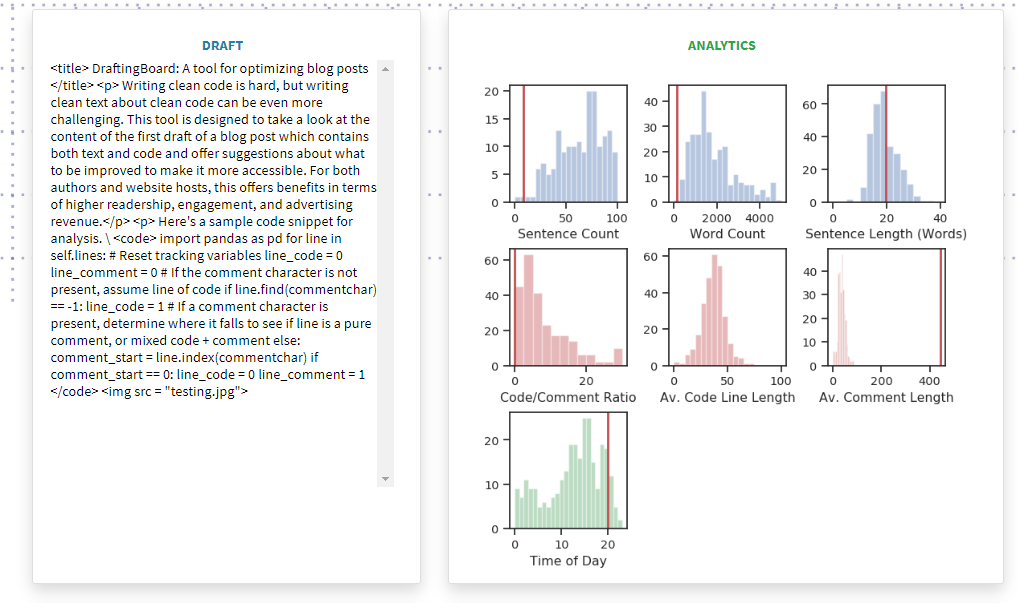
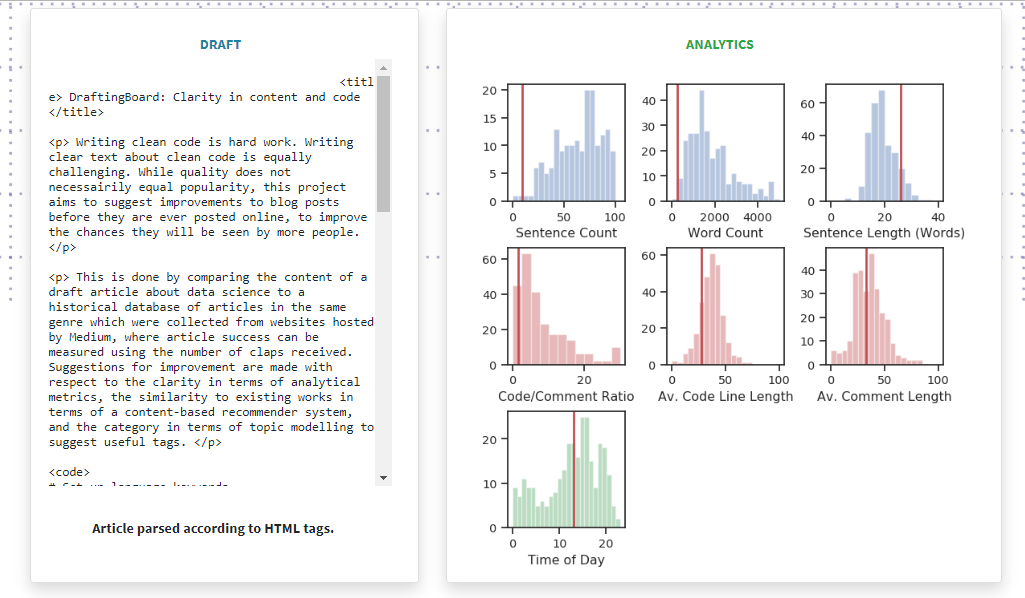
Updated README

diff --git a/insight/README.md b/insight/README.md
@@ -2,7 +2,9 @@
 
 ## Overview 
 ![Project splash screen: lined paper on a wooden desk.](/insight/figures/project_intro.JPG)
-Writing clean code is hard work. Writing clear text about clean code is equally challenging. While quality does not necessairily equal popularity, this project aims to suggest improvements to blog posts before they are ever posted online, to improve the chances they will be seen by more people. 
+Writing clean code is hard work. Writing clear text about clean code is equally challenging. Even after the initial draft is complete, authors face stiff competition: when it comes to online publishing, there is a huge imbalance in readership. With respect to the data set compiled for this project, 5% of the articles written have 73% of the positive attention.
+
+While quality does not necessairily equal popularity, this project aims to suggest improvements to blog posts before they are ever posted online, to improve the chances they will be seen by more people. 
 
 This is done by comparing the content of a draft article about data science to a historical database of articles in the same genre which were collected from websites hosted by Medium, where article success can be measured using the number of claps received. Suggestions for improvement are made with respect to the clarity in terms of analytical metrics, the similarity to existing works in terms of a content-based recommender system, and the category in terms of topic modelling to suggest useful tags. 
 
@@ -10,24 +12,17 @@ This is done by comparing the content of a draft article about data science to a
 
 The data set used in this project is compiled from three sources:
 
-1) A collection of 200+ recent articles scraped from the most popular Medium-affiliated data science sites (Towards Data Science, Hacker Noon, Insight Data Science, etc.)
+1) Web scraping. A collection of 200+ recent articles was scraped from the most popular Medium-affiliated data science sites (Towards Data Science, Hacker Noon, Insight Data Science, etc.)
 
-This scraping was performed and the relevant data blocks extracted in the script:
-> scripts/07-web-scraping-recent.py
-This script outputs a truncated CSV containining the processed data to:
-> data/processed/articles_scraped.csv
-
-2) A Kaggle dataset of 279,577 articles of scraped posts put together by  Aiswarya Ramachandran which contains scraped posts from Medium-affiliated plots tagged with AI, Machine Learning, Datascience, or Artificial Intelligence from September 2017 - September 2018.
+2) Existing data. A dataset of 279,577 articles of scraped posts put together by  Aiswarya Ramachandran which contains scraped posts from Medium-affiliated plots tagged with AI, Machine Learning, Datascience, or Artificial Intelligence from September 2017 - September 2018.
 (https://www.kaggle.com/aiswaryaramachandran/medium-articles-with-content/downloads/medium-articles-with-content.zip/2)
 
-This data set was processed to perform exploratory data analysis and filter the data set to retain only articles with an associated publication name and at least one code block. This code can be found in the script:
-> scripts/01-article-filterer.py
-> noteboos/01-exploratory-data-analysis.ipynb
-This script outputs a truncated CSV containing the processed data to:
-> data/processed/filtereddata.csv
+3) User input. A web app was developed where users can input their prospective post to be analysed, generating suggestions for improvement. If entered as pseudo-HTML code where code blocks are explicitly declared using &lt;code&gt; tags, the input will be separated into text and code and these two components processed separately. If entered as a block of text, the input will be treated as one long string and run through the text NLP pipeline. In either case, a message describing how the input was processed will be returned to the user in the web app.
 
 ## Methodology & Algorithms
 What features of code and content translate to clear, accessible content? Do these features directly translate to success? To answer these questions, several natural language processing methods were applied.
+
+### Pre-processing
 
 ### (1) Clarity: Article Analytics 
 Individual articles within the collection which contain both text and code were analysed to extract metrics describing the content (vocabulary size, average sentence length, total word count, etc.) and the code (ratio of code/comment, average comment length, etc.) This is done in the script:
